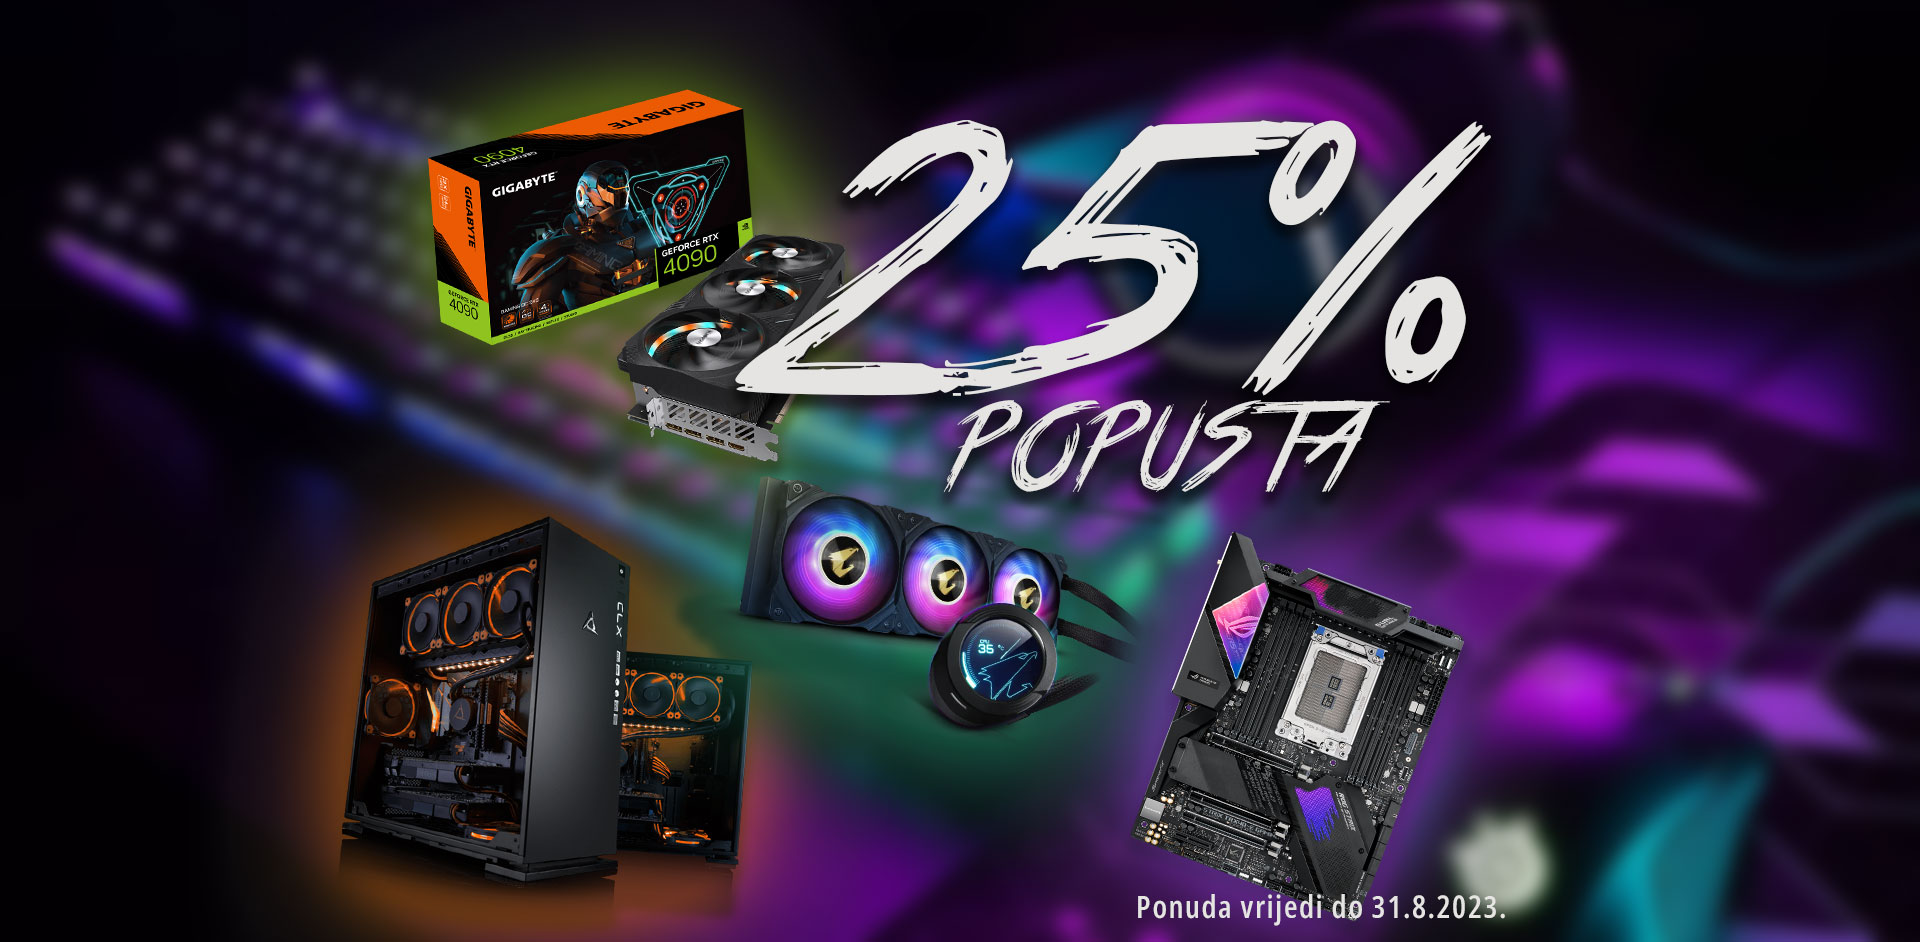
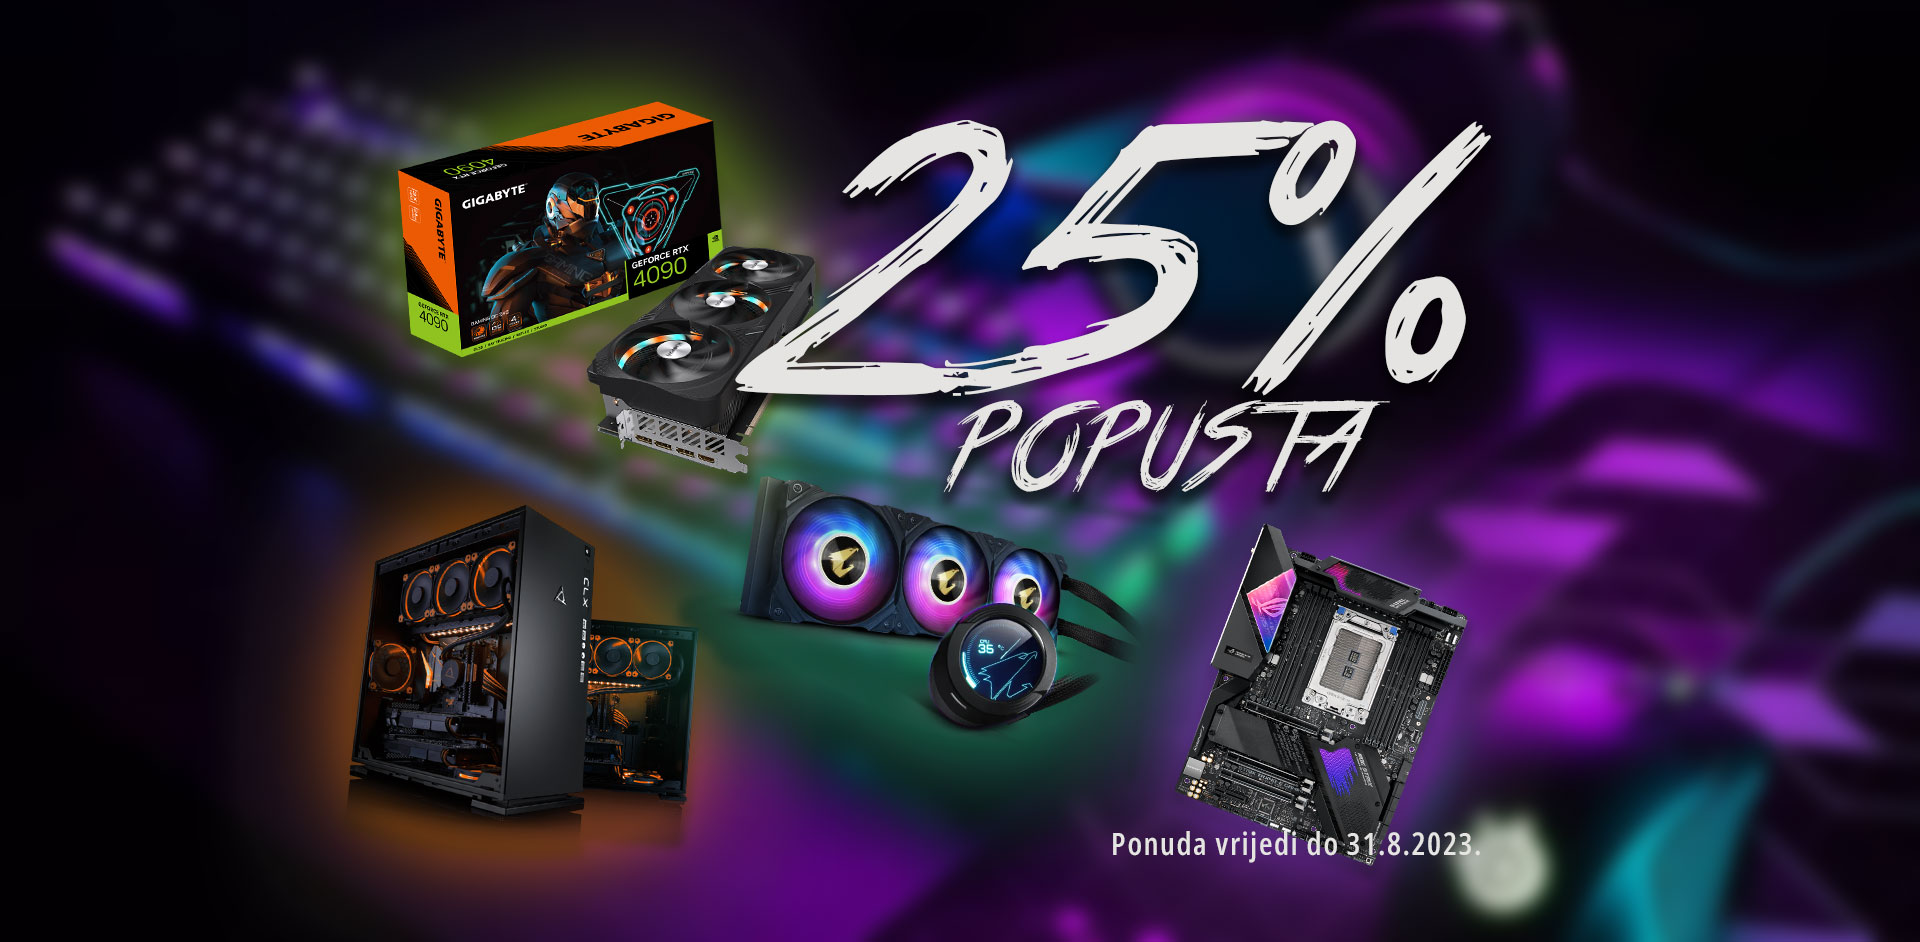
[FRONTEND] add hero responsiveness

Changed region(s): [[0.1562, 0.5234, 0.4375, 1.0], [0.5625, 0.5541, 0.7812, 1.0], [0.1875, 0.0924, 0.4688, 0.5234]]

diff --git a/frontend/vue/src/components/Hero.vue b/frontend/vue/src/components/Hero.vue
@@ -21,9 +21,11 @@ import "swiper/css";
 const photos = ["hero.jpg", "hero.jpg", "hero.jpg", "hero.jpg", "hero.jpg"];
 </script>
 
-<style>
+<style lang="scss">
+@import "../utils/theme.scss";
+
 .swiper {
-  height: 800px;
+  height: 400px;
   width: 100%;
 }
 
@@ -31,5 +33,22 @@ img {
   width: 100%;
   height: 100%;
   object-fit: cover;
+}
+
+@media screen and ($tablet) {
+  .swiper {
+    /* height: 500px; */
+  }
+}
+@media screen and ($desktop) {
+  .swiper {
+    height: 600px;
+    height: calc(100vh - 92px);
+  }
+}
+@media screen and ($desktopLarge) {
+  .swiper {
+    /* height: calc(100vh - 92px); */
+  }
 }
 </style>
